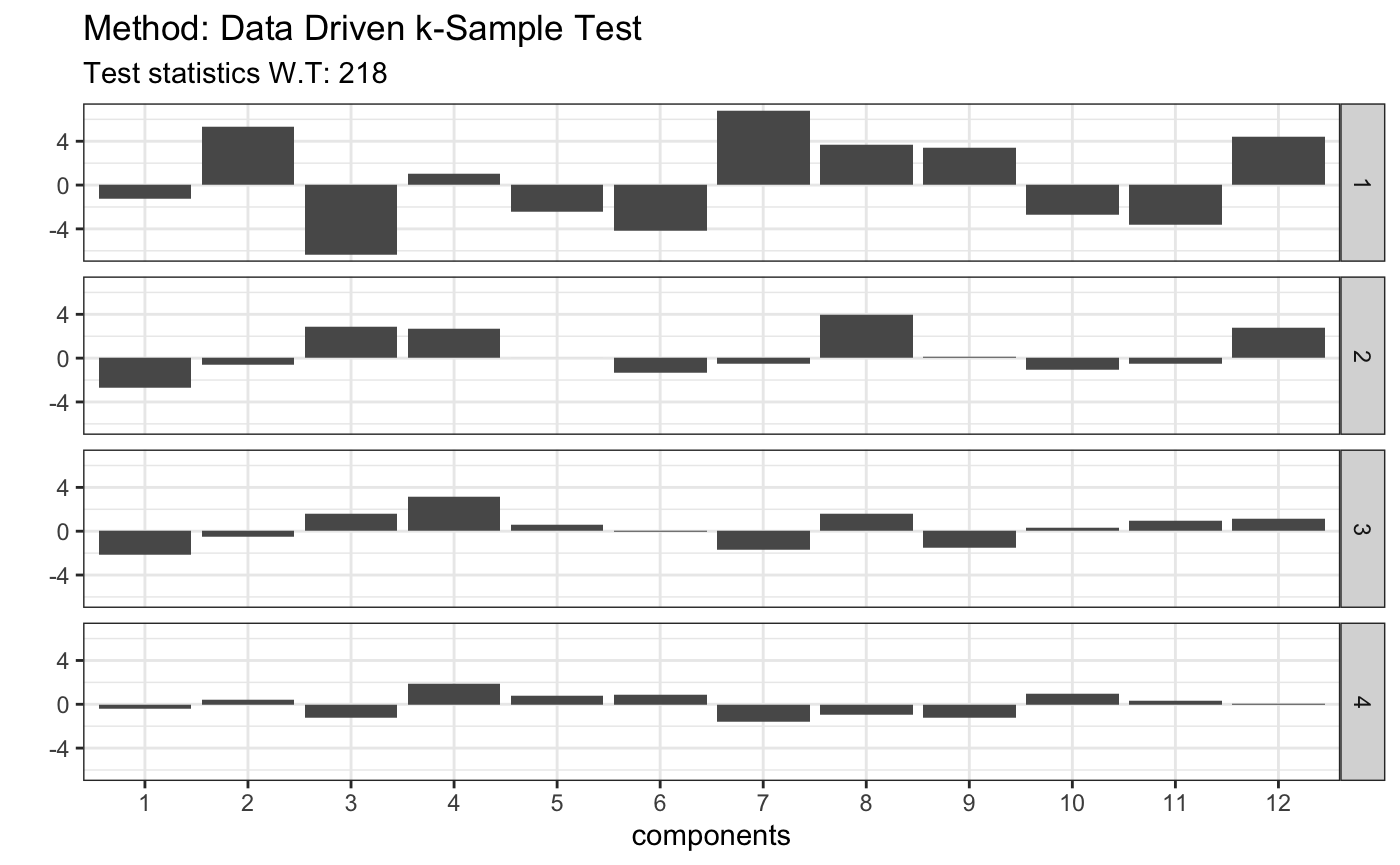
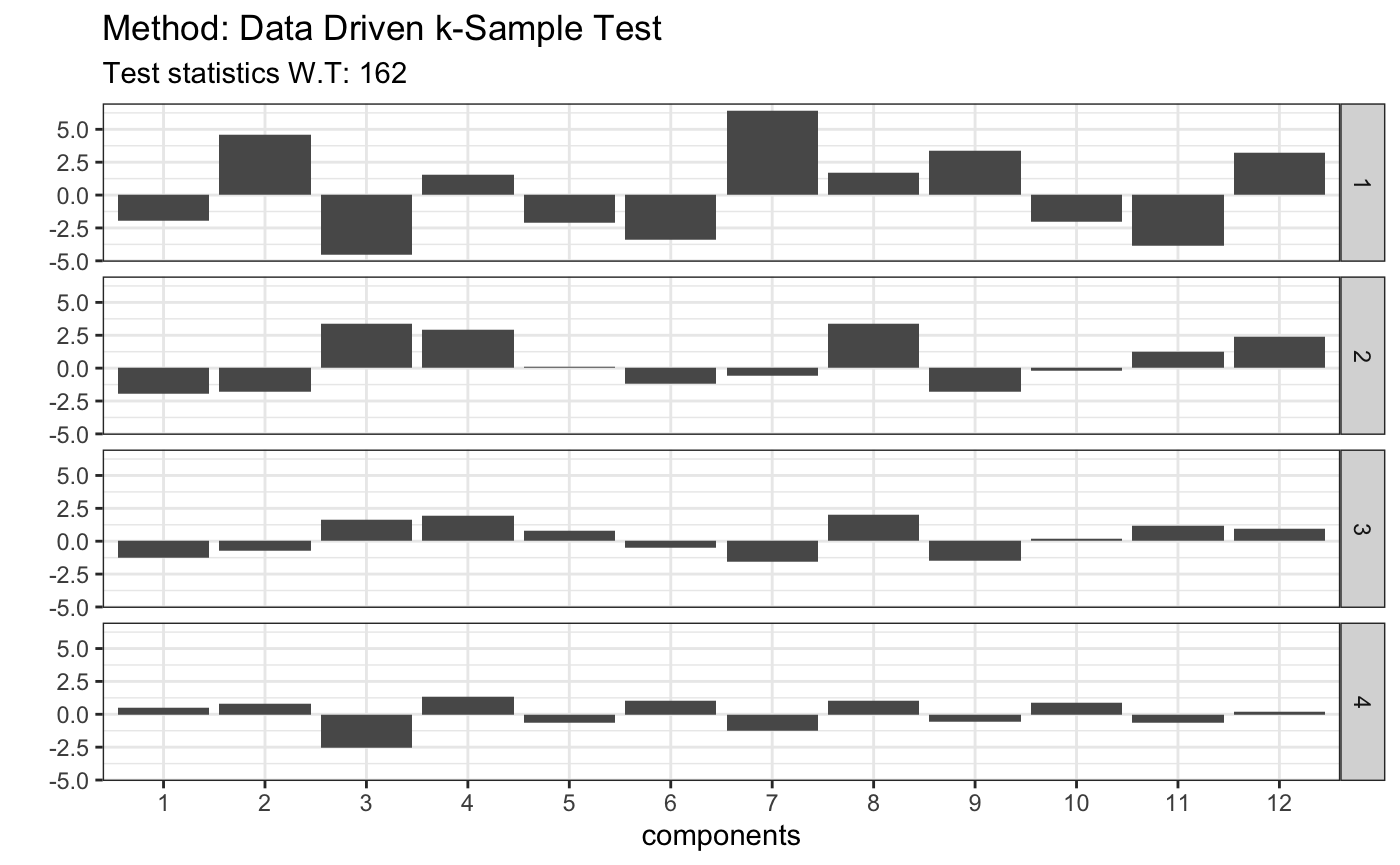
fixed examples

diff --git a/docs/articles/examples_all.html b/docs/articles/examples_all.html
@@ -125,7 +125,7 @@
 ##  Data Driven Smooth Test for Uniformity
 ## 
 ## data:  z,   base: ddst.base.legendre   c: 2.4
-## WT = 1.1993, n. coord = 1, p-value = 0.302</code></pre>
+## WT = 1.2113, n. coord = 1, p-value = 0.315</code></pre>
 <div class="sourceCode" id="cb6"><pre class="sourceCode r"><code class="sourceCode r"><a class="sourceLine" id="cb6-1" data-line-number="1"><span class="co"># for known fixed alternative, here N(10,16)</span></a>
 <a class="sourceLine" id="cb6-2" data-line-number="2">z &lt;-<span class="st"> </span><span class="kw"><a href="https://rdrr.io/r/stats/Normal.html">pnorm</a></span>(z, <span class="dv">10</span>, <span class="dv">16</span>)</a>
 <a class="sourceLine" id="cb6-3" data-line-number="3"><span class="kw"><a href="../reference/ddst.uniform.test.html">ddst.uniform.test</a></span>(z, <span class="dt">compute.p =</span> <span class="ot">TRUE</span>)</a></code></pre></div>
@@ -133,7 +133,7 @@
 ##  Data Driven Smooth Test for Uniformity
 ## 
 ## data:  z,   base: ddst.base.legendre   c: 2.4
-## WT = 519.22, n. coord = 10, p-value &lt; 2.2e-16</code></pre>
+## WT = 521.94, n. coord = 10, p-value &lt; 2.2e-16</code></pre>
 <div class="sourceCode" id="cb8"><pre class="sourceCode r"><code class="sourceCode r"><a class="sourceLine" id="cb8-1" data-line-number="1"><span class="co"># when H0 is false</span></a>
 <a class="sourceLine" id="cb8-2" data-line-number="2">z &lt;-<span class="st"> </span><span class="kw"><a href="https://rdrr.io/r/stats/Beta.html">rbeta</a></span>(<span class="dv">80</span>,<span class="dv">4</span>,<span class="dv">2</span>)</a>
 <a class="sourceLine" id="cb8-3" data-line-number="3"><span class="kw"><a href="../reference/ddst.uniform.test.html">ddst.uniform.test</a></span>(z, <span class="dt">compute.p =</span> <span class="ot">TRUE</span>)</a></code></pre></div>
@@ -141,7 +141,7 @@
 ##  Data Driven Smooth Test for Uniformity
 ## 
 ## data:  z,   base: ddst.base.legendre   c: 2.4
-## WT = 42.288, n. coord = 3, p-value &lt; 2.2e-16</code></pre>
+## WT = 41.53, n. coord = 3, p-value &lt; 2.2e-16</code></pre>
 <div class="sourceCode" id="cb10"><pre class="sourceCode r"><code class="sourceCode r"><a class="sourceLine" id="cb10-1" data-line-number="1"><span class="co"># just p-value</span></a>
 <a class="sourceLine" id="cb10-2" data-line-number="2"><span class="kw"><a href="../reference/ddst.uniform.test.html">ddst.uniform.test</a></span>(z, <span class="dt">compute.p =</span> <span class="ot">TRUE</span>)<span class="op">$</span>p.value</a></code></pre></div>
 <pre><code>## [1] 0</code></pre>
@@ -165,7 +165,7 @@
 ##  Data Driven Smooth Test for Expotentiality
 ## 
 ## data:  z,   base: ddst.base.legendre,   c: 100
-## WT* = 0.050758, n. coord = 1, p-value = 0.822</code></pre>
+## WT* = 0.39076, n. coord = 1, p-value = 0.543</code></pre>
 <div class="sourceCode" id="cb16"><pre class="sourceCode r"><code class="sourceCode r"><a class="sourceLine" id="cb16-1" data-line-number="1"><span class="co"># when H0 is false</span></a>
 <a class="sourceLine" id="cb16-2" data-line-number="2">z &lt;-<span class="st"> </span><span class="kw"><a href="https://rdrr.io/r/stats/Chisquare.html">rchisq</a></span>(<span class="dv">80</span>, <span class="dv">4</span>)</a>
 <a class="sourceLine" id="cb16-3" data-line-number="3"><span class="kw"><a href="../reference/ddst.exp.test.html">ddst.exp.test</a></span>(z, <span class="dt">compute.p =</span> <span class="ot">TRUE</span>)</a></code></pre></div>
@@ -173,7 +173,7 @@
 ##  Data Driven Smooth Test for Expotentiality
 ## 
 ## data:  z,   base: ddst.base.legendre,   c: 100
-## WT* = 10.743, n. coord = 1, p-value = 0.017</code></pre>
+## WT* = 10.63, n. coord = 1, p-value = 0.012</code></pre>
 </div>
 <div id="data-driven-smooth-tests-for-normality" class="section level2">
 <h2 class="hasAnchor">
@@ -197,7 +197,7 @@
 ##  Data Driven Smooth Test for Normality
 ## 
 ## data:  z,   base: ddst.base.legendre,   c: 100
-## WT* = 0.99742, n. coord = 1, p-value = 0.3356</code></pre>
+## WT* = 1.4943, n. coord = 1, p-value = 0.244</code></pre>
 <div class="sourceCode" id="cb22"><pre class="sourceCode r"><code class="sourceCode r"><a class="sourceLine" id="cb22-1" data-line-number="1"><span class="co"># when H0 is false</span></a>
 <a class="sourceLine" id="cb22-2" data-line-number="2">z =<span class="st"> </span><span class="kw"><a href="https://rdrr.io/r/stats/Exponential.html">rexp</a></span>(<span class="dv">80</span>, <span class="dv">4</span>)</a>
 <a class="sourceLine" id="cb22-3" data-line-number="3"><span class="kw"><a href="../reference/ddst.normbounded.test.html">ddst.normbounded.test</a></span>(z, <span class="dt">B =</span> <span class="dv">5000</span>, <span class="dt">compute.p =</span> <span class="ot">TRUE</span>)</a></code></pre></div>
@@ -205,7 +205,7 @@
 ##  Data Driven Smooth Test for Normality
 ## 
 ## data:  z,   base: ddst.base.legendre,   c: 100
-## WT* = 135.36, n. coord = 5, p-value = 1.598e-10</code></pre>
+## WT* = 203.26, n. coord = 5, p-value = 8.427e-14</code></pre>
 </div>
 <div id="the-case-of-unbounded-basis-functions" class="section level3">
 <h3 class="hasAnchor">
@@ -223,7 +223,7 @@
 ##  Data Driven Smooth Test for Extreme Values
 ## 
 ## data:  z,   base: ddst.base.legendre,   c: 100
-## WT* = 1.9073, n. coord = 1, p-value = 0.606</code></pre>
+## WT* = 1.9073, n. coord = 1, p-value = 0.579</code></pre>
 <div class="sourceCode" id="cb26"><pre class="sourceCode r"><code class="sourceCode r"><a class="sourceLine" id="cb26-1" data-line-number="1"><span class="kw"><a href="https://rdrr.io/r/base/library.html">library</a></span>(evd)</a>
 <a class="sourceLine" id="cb26-2" data-line-number="2">z &lt;-<span class="st"> </span><span class="op">-</span><span class="kw"><a href="https://rdrr.io/pkg/evd/man/gumbel.html">qgumbel</a></span>(<span class="kw"><a href="https://rdrr.io/r/stats/Uniform.html">runif</a></span>(<span class="dv">100</span>), <span class="dv">-1</span>, <span class="dv">1</span>)</a>
 <a class="sourceLine" id="cb26-3" data-line-number="3"><span class="kw"><a href="../reference/ddst.extr.test.html">ddst.extr.test</a></span>(z, <span class="dt">compute.p =</span> <span class="ot">TRUE</span>)</a></code></pre></div>
@@ -231,7 +231,7 @@
 ##  Data Driven Smooth Test for Extreme Values
 ## 
 ## data:  z,   base: ddst.base.legendre,   c: 100
-## WT* = 0.061303, n. coord = 1, p-value = 1</code></pre>
+## WT* = 0.41414, n. coord = 1, p-value = 0.999</code></pre>
 <div class="sourceCode" id="cb28"><pre class="sourceCode r"><code class="sourceCode r"><a class="sourceLine" id="cb28-1" data-line-number="1"><span class="co"># when H0 is false</span></a>
 <a class="sourceLine" id="cb28-2" data-line-number="2">z &lt;-<span class="st"> </span><span class="kw"><a href="https://rdrr.io/r/stats/Exponential.html">rexp</a></span>(<span class="dv">80</span>, <span class="dv">4</span>)</a>
 <a class="sourceLine" id="cb28-3" data-line-number="3"><span class="kw"><a href="../reference/ddst.extr.test.html">ddst.extr.test</a></span>(z, <span class="dt">compute.p =</span> <span class="ot">TRUE</span>)</a></code></pre></div>
@@ -239,7 +239,7 @@
 ##  Data Driven Smooth Test for Extreme Values
 ## 
 ## data:  z,   base: ddst.base.legendre,   c: 100
-## WT* = 73845, n. coord = 5, p-value &lt; 2.2e-16</code></pre>
+## WT* = 89644, n. coord = 5, p-value &lt; 2.2e-16</code></pre>
 </div>
 </div>
 <div id="iii--nonparametric-data-driven-smooth-tests-for-comparing-distributions" class="section level1">
@@ -258,7 +258,7 @@
 ##  Data Driven k-Sample Test
 ## 
 ## data:  
-## W.T = 2.3371, l = NA</code></pre>
+## W.T = 0.70757, l = NA</code></pre>
 <div class="sourceCode" id="cb32"><pre class="sourceCode r"><code class="sourceCode r"><a class="sourceLine" id="cb32-1" data-line-number="1"><span class="kw"><a href="https://rdrr.io/r/graphics/plot.html">plot</a></span>(t)</a></code></pre></div>
 <p><img src="examples_all_files/figure-html/unnamed-chunk-7-1.png" width="700"></p>
 <div class="sourceCode" id="cb33"><pre class="sourceCode r"><code class="sourceCode r"><a class="sourceLine" id="cb33-1" data-line-number="1"><span class="co"># known fixed alternative</span></a>
@@ -272,7 +272,7 @@
 ##  Data Driven k-Sample Test
 ## 
 ## data:  
-## W.T = 218.12, l = NA</code></pre>
+## W.T = 162.27, l = NA</code></pre>
 <div class="sourceCode" id="cb35"><pre class="sourceCode r"><code class="sourceCode r"><a class="sourceLine" id="cb35-1" data-line-number="1"><span class="kw"><a href="https://rdrr.io/r/graphics/plot.html">plot</a></span>(t)</a></code></pre></div>
 <p><img src="examples_all_files/figure-html/unnamed-chunk-7-2.png" width="700"></p>
 </div>
@@ -354,7 +354,7 @@
 <a class="sourceLine" id="cb53-2" data-line-number="2">x =<span class="st"> </span><span class="kw"><a href="https://rdrr.io/r/stats/Uniform.html">runif</a></span>(<span class="dv">80</span>)</a>
 <a class="sourceLine" id="cb53-3" data-line-number="3">y =<span class="st"> </span><span class="kw"><a href="https://rdrr.io/r/stats/Uniform.html">runif</a></span>(<span class="dv">80</span>) <span class="op">+</span><span class="st"> </span><span class="fl">0.2</span></a>
 <a class="sourceLine" id="cb53-4" data-line-number="4">z =<span class="st"> </span><span class="kw"><a href="https://rdrr.io/r/stats/Uniform.html">runif</a></span>(<span class="dv">80</span>) <span class="op">+</span><span class="st"> </span><span class="fl">0.4</span></a>
-<a class="sourceLine" id="cb53-5" data-line-number="5">t &lt;-<span class="st"> </span><span class="kw"><a href="https://rdrr.io/pkg/ddst/man/ddst.upwardtrend.test.html">ddst.upwardtrend.test</a></span>(<span class="kw"><a href="https://rdrr.io/r/base/list.html">list</a></span>(x, y, z))</a>
+<a class="sourceLine" id="cb53-5" data-line-number="5">t &lt;-<span class="st"> </span><span class="kw"><a href="../reference/ddst.upwardtrend.test.html">ddst.upwardtrend.test</a></span>(<span class="kw"><a href="https://rdrr.io/r/base/list.html">list</a></span>(x, y, z))</a>
 <a class="sourceLine" id="cb53-6" data-line-number="6">t</a></code></pre></div>
 <pre><code>## 
 ##  Data Driven k-Sample Upward Trend Test
@@ -368,7 +368,7 @@
 <a class="sourceLine" id="cb56-3" data-line-number="3">x2 =<span class="st"> </span><span class="kw"><a href="https://rdrr.io/r/stats/Normal.html">rnorm</a></span>(<span class="dv">80</span>) <span class="op">+</span><span class="st"> </span><span class="dv">2</span></a>
 <a class="sourceLine" id="cb56-4" data-line-number="4">x3 =<span class="st"> </span><span class="kw"><a href="https://rdrr.io/r/stats/Normal.html">rnorm</a></span>(<span class="dv">80</span>) <span class="op">+</span><span class="st"> </span><span class="dv">4</span></a>
 <a class="sourceLine" id="cb56-5" data-line-number="5">x4 =<span class="st"> </span><span class="kw"><a href="https://rdrr.io/r/stats/Normal.html">rnorm</a></span>(<span class="dv">80</span>) <span class="op">+</span><span class="st"> </span><span class="dv">3</span></a>
-<a class="sourceLine" id="cb56-6" data-line-number="6">t &lt;-<span class="st"> </span><span class="kw"><a href="https://rdrr.io/pkg/ddst/man/ddst.upwardtrend.test.html">ddst.upwardtrend.test</a></span>(<span class="kw"><a href="https://rdrr.io/r/base/list.html">list</a></span>(x1, x2, x3, x4))</a>
+<a class="sourceLine" id="cb56-6" data-line-number="6">t &lt;-<span class="st"> </span><span class="kw"><a href="../reference/ddst.upwardtrend.test.html">ddst.upwardtrend.test</a></span>(<span class="kw"><a href="https://rdrr.io/r/base/list.html">list</a></span>(x1, x2, x3, x4))</a>
 <a class="sourceLine" id="cb56-7" data-line-number="7">t</a></code></pre></div>
 <pre><code>## 
 ##  Data Driven k-Sample Upward Trend Test

diff --git a/docs/reference/ddst.normbounded.test.html b/docs/reference/ddst.normbounded.test.html
@@ -201,19 +201,30 @@ or <code>ddst.base.cos</code> for cosine system, see package description</p></td
     <pre class="examples"><div class='input'><span class='co'># for given vector of 19 numbers</span>
 <span class='no'>z</span> <span class='kw'>&lt;-</span> <span class='fu'><a href='https://rdrr.io/r/base/c.html'>c</a></span>(<span class='fl'>13.41</span>, <span class='fl'>6.04</span>, <span class='fl'>1.26</span>, <span class='fl'>3.67</span>, -<span class='fl'>4.54</span>, <span class='fl'>2.92</span>, <span class='fl'>0.44</span>, <span class='fl'>12.93</span>, <span class='fl'>6.77</span>, <span class='fl'>10.09</span>,
     <span class='fl'>4.10</span>, <span class='fl'>4.04</span>, -<span class='fl'>1.97</span>, <span class='fl'>2.17</span>, -<span class='fl'>5.38</span>, -<span class='fl'>7.30</span>, <span class='fl'>4.75</span>, <span class='fl'>5.63</span>, <span class='fl'>8.84</span>)
-<span class='fu'>ddst.norm.test</span>(<span class='no'>z</span>, <span class='kw'>compute.p</span><span class='kw'>=</span><span class='fl'>TRUE</span>)</div><div class='output co'>#&gt; <span class='error'>Error in ddst.norm.test(z, compute.p = TRUE): could not find function "ddst.norm.test"</span></div><div class='input'>
+<span class='fu'>ddst.normbounded.test</span>(<span class='no'>z</span>, <span class='kw'>compute.p</span><span class='kw'>=</span><span class='fl'>TRUE</span>)</div><div class='output co'>#&gt; 
+#&gt; 	Data Driven Smooth Test for Normality
+#&gt; 
+#&gt; data:  z,   base: ddst.base.legendre,   c: 100
+#&gt; WT* = 0.13095, n. coord = 1, p-value = 0.7201
+#&gt; </div><div class='input'>
 <span class='co'># H0 is true</span>
 <span class='no'>z</span> <span class='kw'>&lt;-</span> <span class='fu'><a href='https://rdrr.io/r/stats/Normal.html'>rnorm</a></span>(<span class='fl'>80</span>)
-<span class='no'>t</span> <span class='kw'>&lt;-</span> <span class='fu'>ddst.norm.test</span>(<span class='no'>z</span>, <span class='kw'>compute.p</span><span class='kw'>=</span><span class='fl'>TRUE</span>)</div><div class='output co'>#&gt; <span class='error'>Error in ddst.norm.test(z, compute.p = TRUE): could not find function "ddst.norm.test"</span></div><div class='input'><span class='no'>t</span></div><div class='output co'>#&gt; function (x) 
-#&gt; UseMethod("t")
-#&gt; &lt;bytecode: 0x7fe8acc17ce8&gt;
-#&gt; &lt;environment: namespace:base&gt;</div><div class='input'><span class='fu'><a href='https://rdrr.io/r/graphics/plot.html'>plot</a></span>(<span class='no'>t</span>)</div><div class='input'>
+<span class='no'>t</span> <span class='kw'>&lt;-</span> <span class='fu'>ddst.normbounded.test</span>(<span class='no'>z</span>, <span class='kw'>compute.p</span><span class='kw'>=</span><span class='fl'>TRUE</span>)
+<span class='no'>t</span></div><div class='output co'>#&gt; 
+#&gt; 	Data Driven Smooth Test for Normality
+#&gt; 
+#&gt; data:  z,   base: ddst.base.legendre,   c: 100
+#&gt; WT* = 0.56016, n. coord = 1, p-value = 0.4708
+#&gt; </div><div class='input'><span class='fu'><a href='https://rdrr.io/r/graphics/plot.html'>plot</a></span>(<span class='no'>t</span>)</div><div class='img'><img src='ddst.normbounded.test-1.png' alt='' width='700' height='433' /></div><div class='input'>
 <span class='co'># H0 is false</span>
 <span class='no'>z</span> <span class='kw'>&lt;-</span> <span class='fu'><a href='https://rdrr.io/r/stats/Exponential.html'>rexp</a></span>(<span class='fl'>80</span>,<span class='fl'>4</span>)
-<span class='no'>t</span> <span class='kw'>&lt;-</span> <span class='fu'>ddst.norm.test</span>(<span class='no'>z</span>, <span class='kw'>B</span><span class='kw'>=</span><span class='fl'>5000</span>, <span class='kw'>compute.p</span><span class='kw'>=</span><span class='fl'>TRUE</span>)</div><div class='output co'>#&gt; <span class='error'>Error in ddst.norm.test(z, B = 5000, compute.p = TRUE): could not find function "ddst.norm.test"</span></div><div class='input'><span class='no'>t</span></div><div class='output co'>#&gt; function (x) 
-#&gt; UseMethod("t")
-#&gt; &lt;bytecode: 0x7fe8acc17ce8&gt;
-#&gt; &lt;environment: namespace:base&gt;</div><div class='input'><span class='fu'><a href='https://rdrr.io/r/graphics/plot.html'>plot</a></span>(<span class='no'>t</span>)</div><div class='img'><img src='ddst.normbounded.test-1.png' alt='' width='700' height='433' /></div><div class='input'>
+<span class='no'>t</span> <span class='kw'>&lt;-</span> <span class='fu'>ddst.normbounded.test</span>(<span class='no'>z</span>, <span class='kw'>B</span><span class='kw'>=</span><span class='fl'>5000</span>, <span class='kw'>compute.p</span><span class='kw'>=</span><span class='fl'>TRUE</span>)
+<span class='no'>t</span></div><div class='output co'>#&gt; 
+#&gt; 	Data Driven Smooth Test for Normality
+#&gt; 
+#&gt; data:  z,   base: ddst.base.legendre,   c: 100
+#&gt; WT* = 69.354, n. coord = 4, p-value = 8.065e-07
+#&gt; </div><div class='input'><span class='fu'><a href='https://rdrr.io/r/graphics/plot.html'>plot</a></span>(<span class='no'>t</span>)</div><div class='img'><img src='ddst.normbounded.test-2.png' alt='' width='700' height='433' /></div><div class='input'>
 <span class='co'># for Tephra data</span>
 <span class='no'>z</span> <span class='kw'>&lt;-</span> <span class='fu'><a href='https://rdrr.io/r/base/c.html'>c</a></span>(-<span class='fl'>1.748789</span>, -<span class='fl'>1.75753</span>, -<span class='fl'>1.740102</span>, -<span class='fl'>1.740102</span>, -<span class='fl'>1.731467</span>, -<span class='fl'>1.765523</span>,
       -<span class='fl'>1.761521</span>, -<span class='fl'>1.72522</span>, -<span class='fl'>1.80371</span>, -<span class='fl'>1.745624</span>, -<span class='fl'>1.872957</span>, -<span class='fl'>1.729121</span>,
@@ -225,10 +236,13 @@ or <code>ddst.base.cos</code> for cosine system, see package description</p></td
       -<span class='fl'>1.759923</span>, -<span class='fl'>1.786519</span>, -<span class='fl'>1.726779</span>, -<span class='fl'>1.738528</span>, -<span class='fl'>1.754345</span>, -<span class='fl'>1.781646</span>,
       -<span class='fl'>1.641949</span>, -<span class='fl'>1.755936</span>, -<span class='fl'>1.775175</span>, -<span class='fl'>1.736956</span>, -<span class='fl'>1.705103</span>, -<span class='fl'>1.743255</span>,
       -<span class='fl'>1.82613</span>, -<span class='fl'>1.826967</span>, -<span class='fl'>1.780025</span>, -<span class='fl'>1.684504</span>, -<span class='fl'>1.751168</span>)
-<span class='no'>t</span> <span class='kw'>&lt;-</span> <span class='fu'>ddst.norm.test</span>(<span class='no'>z</span>, <span class='kw'>compute.p</span><span class='kw'>=</span><span class='fl'>TRUE</span>)</div><div class='output co'>#&gt; <span class='error'>Error in ddst.norm.test(z, compute.p = TRUE): could not find function "ddst.norm.test"</span></div><div class='input'><span class='no'>t</span></div><div class='output co'>#&gt; function (x) 
-#&gt; UseMethod("t")
-#&gt; &lt;bytecode: 0x7fe8acc17ce8&gt;
-#&gt; &lt;environment: namespace:base&gt;</div><div class='input'><span class='fu'><a href='https://rdrr.io/r/graphics/plot.html'>plot</a></span>(<span class='no'>t</span>)</div></pre>
+<span class='no'>t</span> <span class='kw'>&lt;-</span> <span class='fu'>ddst.normbounded.test</span>(<span class='no'>z</span>, <span class='kw'>compute.p</span><span class='kw'>=</span><span class='fl'>TRUE</span>)
+<span class='no'>t</span></div><div class='output co'>#&gt; 
+#&gt; 	Data Driven Smooth Test for Normality
+#&gt; 
+#&gt; data:  z,   base: ddst.base.legendre,   c: 100
+#&gt; WT* = 3.7615, n. coord = 1, p-value = 0.08891
+#&gt; </div><div class='input'><span class='fu'><a href='https://rdrr.io/r/graphics/plot.html'>plot</a></span>(<span class='no'>t</span>)</div><div class='img'><img src='ddst.normbounded.test-3.png' alt='' width='700' height='433' /></div></pre>
   </div>
   <div class="col-md-3 hidden-xs hidden-sm" id="sidebar">
     <h2>Contents</h2>

diff --git a/docs/index.html b/docs/index.html
@@ -108,23 +108,23 @@
 <li>DDSTest for Uniformity - <code><a href="reference/ddst.uniform.test.html">ddst.uniform.test()</a></code>; see <a href="https://www.sciencedirect.com/science/article/pii/S0024379505005082"><em>Towards data driven selection of a penalty function for data driven Neyman tests</em> by Inglot and Ledwina (2006)</a>.</li>
 <li>DDSTest for Exponentiality - <code><a href="reference/ddst.exp.test.html">ddst.exp.test()</a></code>; see <a href="https://www.tandfonline.com/doi/abs/10.1080/00949659708811850"><em>Data driven smooth tests for composite hypotheses: Comparison of powers</em> by Kallenberg and Ledwina (1997)</a>.</li>
 <li>DDSTest for Normality; bounded basis functions - <code><a href="reference/ddst.normbounded.test.html">ddst.normbounded.test()</a></code>; see <a href="https://link.springer.com/article/10.1080/15598608.2009.10411952"><em>Data-driven tests for a location-scale family revisited</em> by Janic and Ledwina (2009)</a>.</li>
-<li>DDSTest for Normality; unbounded basis functions - <code>ddst.normunbounded.test()</code>; see <a href="https://www.tandfonline.com/doi/abs/10.1080/00949655.2014.983110?journalCode=gscs20"><em>Detection of non-Gaussianity</em> by Ledwina and Wylupek (2015)</a>.</li>
+<li>DDSTest for Normality; unbounded basis functions - <code>ddst.normunbounded.test()</code>; see <a href="https://www.tandfonline.com/doi/abs/10.1080/00949655.2014.983110?journalCode=gscs20"><em>Detection of non-Gaussianity</em> by Ledwina and Wyłupek (2015)</a>.</li>
 <li>DDSTest for Extreme Value Distribution - <code><a href="reference/ddst.extr.test.html">ddst.extr.test()</a></code>; see <a href="https://link.springer.com/article/10.1080/15598608.2009.10411952"><em>Data-driven tests for a location-scale family revisited</em> by Janic and Ledwina (2009)</a>.</li>
 </ul>
 </div>
 <div id="nonparametric-data-driven-smooth-tests-for-comparing-distributions" class="section level3">
 <h3 class="hasAnchor">
 <a href="#nonparametric-data-driven-smooth-tests-for-comparing-distributions" class="anchor"></a>Nonparametric Data Driven Smooth Tests for Comparing Distributions</h3>
-<p>A starting point of the constructions were the papers: <a href="https://www.jstor.org/stable/4616603?seq=1#page_scan_tab_contents"><em>Data driven rank test for two-sample problem</em> by Janic-Wroblewska and Ledwina (2000)</a> and <a href="https://www.sciencedirect.com/science/article/pii/S0024379505005082"><em>Towards data driven selection of a penalty function for data driven Neyman tests</em> by Inglot and Ledwina (2006)</a>.</p>
+<p>A starting point of the constructions were the papers: <a href="https://www.jstor.org/stable/4616603?seq=1#page_scan_tab_contents"><em>Data driven rank test for two-sample problem</em> by Janic-Wróblewska and Ledwina (2000)</a> and <a href="https://www.sciencedirect.com/science/article/pii/S0024379505005082"><em>Towards data driven selection of a penalty function for data driven Neyman tests</em> by Inglot and Ledwina (2006)</a>.</p>
 <ul>
-<li>DDSTest for k-Sample Problem - <code><a href="reference/ddst.ksample.test.html">ddst.ksample.test()</a></code>; see <a href="https://www.jstor.org/stable/40586684?seq=1"><em>Data-driven k-sample tests</em> by Wylupek (2010)</a>.</li>
-<li>DDSTest for Change-Point Problem - <code>ddst.changepoint.test()</code>; see <a href="https://link.springer.com/article/10.1007/s00184-007-0139-2"><em>Data driven rank test for the change point problem</em> by Antoch, Huskova, Janic and Ledwina (2008)</a>.</li>
-<li>DDSTest for Stochastic Dominance in Two Samples - <code><a href="reference/ddst.forstochdom.test.html">ddst.forstochdom.test()</a></code>; see <a href="https://link.springer.com/article/10.1007/s11749-011-0278-7"><em>Nonparametric tests for stochastic ordering</em> by Ledwina and Wylupek (2012)</a>.</li>
-<li>DDSTest Against Stochastic Dominance - <code><a href="reference/ddst.againststochdom.test.html">ddst.againststochdom.test()</a></code>; see <a href="https://onlinelibrary.wiley.com/doi/abs/10.1111/j.1467-9469.2011.00787.x"><em>Two-sample test against one-sided alternatives</em> by Ledwina and Wylupek (2012)</a>.</li>
-<li>DDSTest for Upward Trend - <code>ddst.upwardtrend.test()</code>; see <a href="https://www.tandfonline.com/doi/abs/10.1080/03610926.2012.697967"><em>Data-driven tests for trend</em> by Wylupek (2013)</a>.</li>
-<li>DDSTest for Umbrella Alternatives - <code><a href="reference/ddst.umbrella.test.html">ddst.umbrella.test()</a></code>; see <a href="https://onlinelibrary.wiley.com/doi/abs/10.1111/sjos.12231"><em>An automatic test for the umbrella alternatives</em> by Wylupek (2016)</a>.</li>
+<li>DDSTest for k-Sample Problem - <code><a href="reference/ddst.ksample.test.html">ddst.ksample.test()</a></code>; see <a href="https://www.jstor.org/stable/40586684?seq=1"><em>Data-driven k-sample tests</em> by Wyłupek (2010)</a>.</li>
+<li>DDSTest for Change-Point Problem - <code>ddst.changepoint.test()</code>; see <a href="https://link.springer.com/article/10.1007/s00184-007-0139-2"><em>Data driven rank test for the change point problem</em> by Antoch, Hušková, Janic and Ledwina (2008)</a>.</li>
+<li>DDSTest for Stochastic Dominance in Two Samples - <code><a href="reference/ddst.forstochdom.test.html">ddst.forstochdom.test()</a></code>; see <a href="https://link.springer.com/article/10.1007/s11749-011-0278-7"><em>Nonparametric tests for stochastic ordering</em> by Ledwina and Wyłupek (2012)</a>.</li>
+<li>DDSTest Against Stochastic Dominance - <code><a href="reference/ddst.againststochdom.test.html">ddst.againststochdom.test()</a></code>; see <a href="https://onlinelibrary.wiley.com/doi/abs/10.1111/j.1467-9469.2011.00787.x"><em>Two-sample test against one-sided alternatives</em> by Ledwina and Wyłupek (2012)</a>.</li>
+<li>DDSTest for Upward Trend - <code><a href="reference/ddst.upwardtrend.test.html">ddst.upwardtrend.test()</a></code>; see <a href="https://www.tandfonline.com/doi/abs/10.1080/03610926.2012.697967"><em>Data-driven tests for trend</em> by Wyłupek (2013)</a>.</li>
+<li>DDSTest for Umbrella Alternatives - <code><a href="reference/ddst.umbrella.test.html">ddst.umbrella.test()</a></code>; see <a href="https://onlinelibrary.wiley.com/doi/abs/10.1111/sjos.12231"><em>An automatic test for the umbrella alternatives</em> by Wyłupek (2016)</a>.</li>
 </ul>
-<p>A more detailed overview is contained in <a href="http://www.biecek.pl/R/ddst/description.pdf">Overview of Data Driven Smooth Tests</a>. Full details on the above procedures can be found in the related papers.</p>
+<p>A more detailed overview is contained in <a href="http://www.biecek.pl/R/ddst/description.pdf">Data Driven Smooth Test - Introductory Material</a>. Full details on the above procedures can be found in the related papers.</p>
 </div>
 </div>
 <div id="installation" class="section level2">
